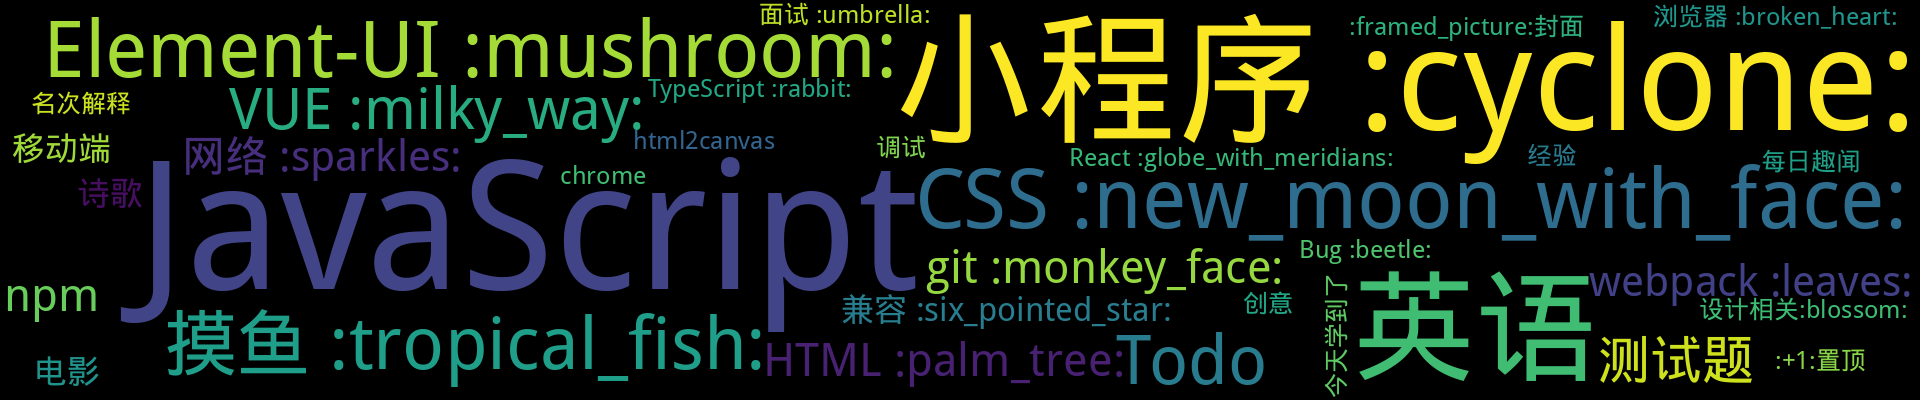
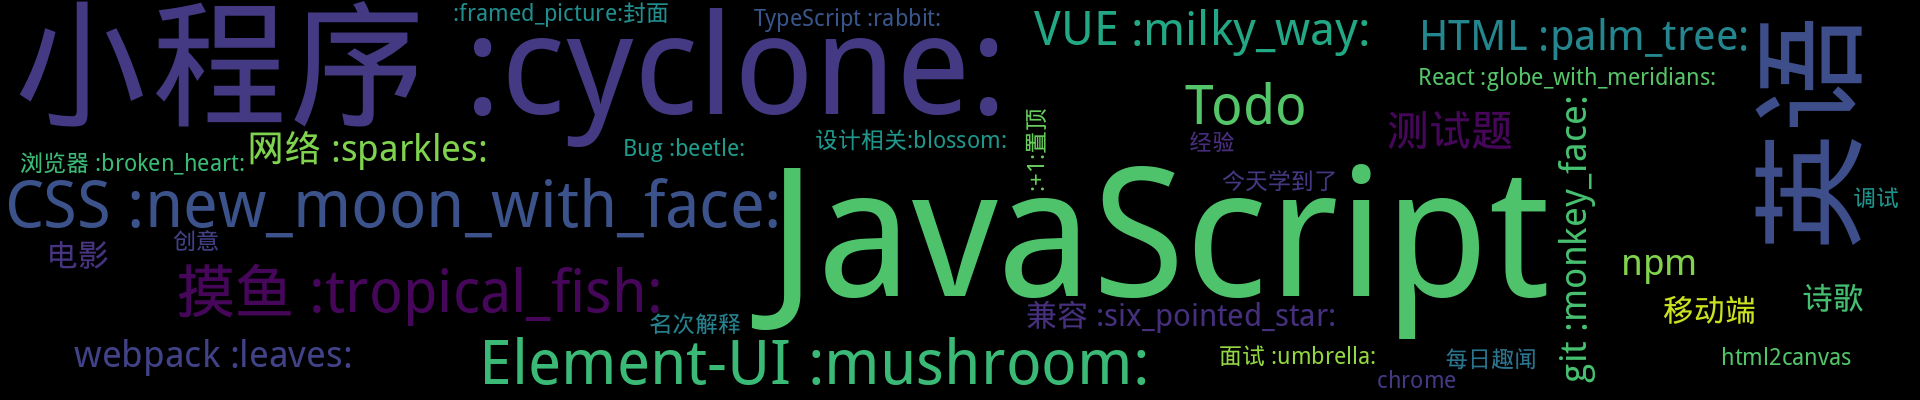
Update from Github Action

diff --git a/README.md b/README.md
@@ -3,7 +3,7 @@
 <p align='center'>
     <img src="https://badgen.net/badge/labels/41"/>
     <img src="https://badgen.net/github/issues/smileyby/ghiblog"/>
-    <img src="https://badgen.net/badge/last-commit/2021-09-01 06:02:06"/>
+    <img src="https://badgen.net/badge/last-commit/2021-09-02 03:05:21"/>
     <img src="https://badgen.net/github/forks/smileyby/ghiblog"/>
     <img src="https://badgen.net/github/stars/smileyby/ghiblog"/>
     <img src="https://badgen.net/github/watchers/smileyby/ghiblog"/>
@@ -33,6 +33,17 @@
 ## 置顶 :thumbsup: 
 - [封面图](https://github.com/smileyby/notes-copy/issues/1)  <sup>1 :speech_balloon:</sup>  	 
 ## 最新 :new: 
+
+#### [HTML draggable 属性实现拖拽](https://github.com/smileyby/notes-copy/issues/144) <sup>0 :speech_balloon:</sup> 	 2021-09-02 03:04:49
+
+:label: : [HTML :palm_tree:](https://github.com/smileyby/ghiblog/labels/HTML%20%3Apalm_tree%3A)
+
+TODO
+
+[更多>>>](https://github.com/smileyby/notes-copy/issues/144)
+
+---
+
 
 #### [分页加载数据，动态计算高度不准确bug](https://github.com/smileyby/notes-copy/issues/143) <sup>0 :speech_balloon:</sup> 	 2021-09-01 06:01:36
 
@@ -78,18 +89,6 @@ Todo
 
 
 [更多>>>](https://github.com/smileyby/notes-copy/issues/140)
-
----
-
-
-#### [推荐电影：最后的城堡](https://github.com/smileyby/notes-copy/issues/139) <sup>0 :speech_balloon:</sup> 	 2021-08-18 07:07:39
-
-:label: : [摸鱼 :tropical_fish:](https://github.com/smileyby/ghiblog/labels/%E6%91%B8%E9%B1%BC%20%3Atropical_fish%3A), [电影](https://github.com/smileyby/ghiblog/labels/%E7%94%B5%E5%BD%B1)
-
-![image](https://user-images.githubusercontent.com/16968442/129853515-71abb118-df2d-4893-b256-528f4fdb15a7.png)
-
-
-[更多>>>](https://github.com/smileyby/notes-copy/issues/139)
 
 ---
 
@@ -179,8 +178,9 @@ Todo
 </details>
 
 <details>
-<summary>HTML :palm_tree:	<sup>3:newspaper:</sup></summary>
+<summary>HTML :palm_tree:	<sup>4:newspaper:</sup></summary>
 
+- [HTML draggable 属性实现拖拽](https://github.com/smileyby/notes-copy/issues/144)  <sup>0 :speech_balloon:</sup>  	 
 - [input 修改光标颜色 caret-color](https://github.com/smileyby/notes-copy/issues/109)  <sup>0 :speech_balloon:</sup>  	 
 - [HTML：Unicode 编码的用途](https://github.com/smileyby/notes-copy/issues/77)  <sup>0 :speech_balloon:</sup>  	 
 - [HTML：实现a元素href URL链接自动刷新或新窗口打开](https://github.com/smileyby/notes-copy/issues/69)  <sup>0 :speech_balloon:</sup>  	 
